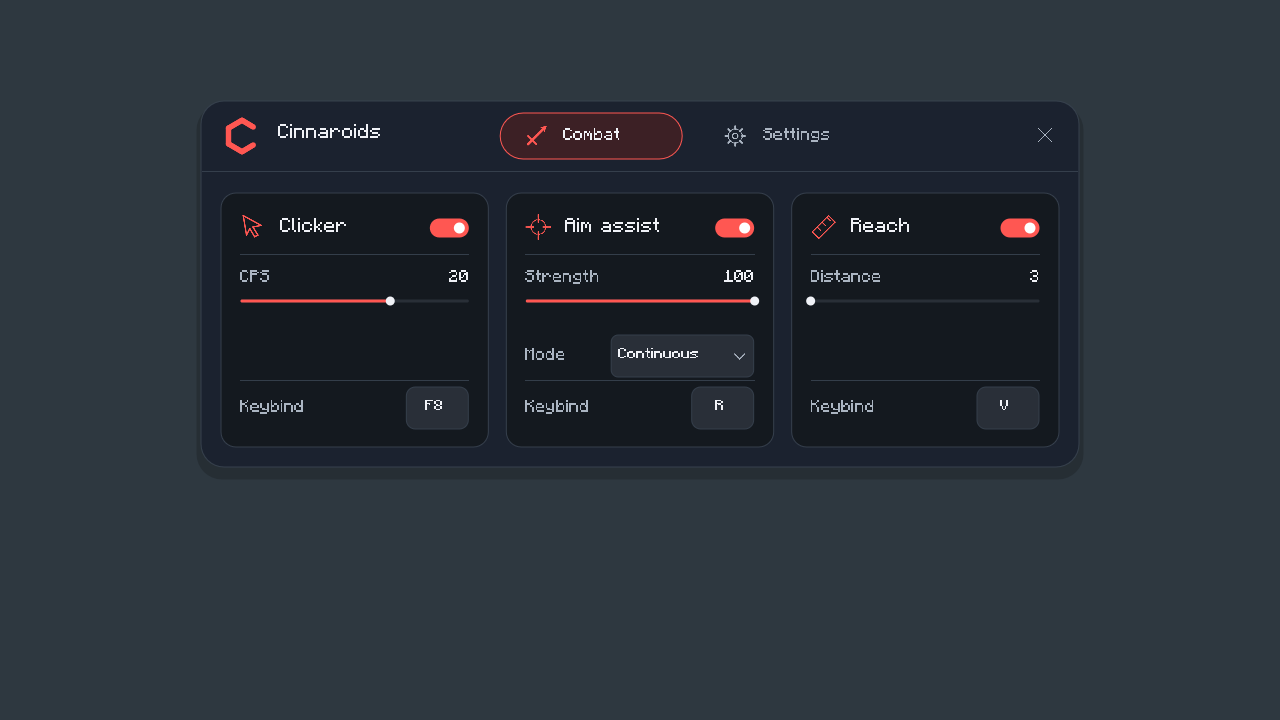
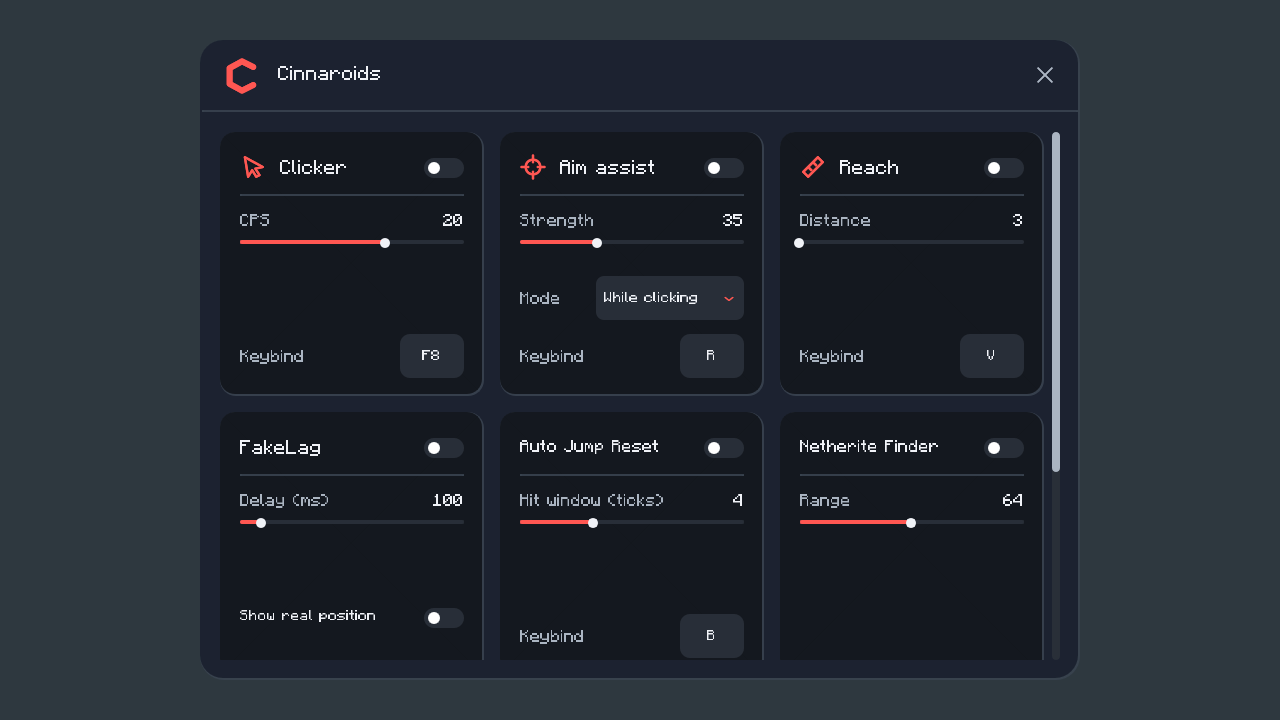
fix: restore square cards on one scrollable panel

Changed region(s): [[0.1562, 0.1528, 0.8438, 0.9167], [0.1562, 0.0917, 0.375, 0.4278], [0.3438, 0.3667, 0.375, 0.3972]]

diff --git a/scripts/generate-panel.py b/scripts/generate-panel.py
@@ -1,0 +1,193 @@
+#!/usr/bin/env python3
+"""Generate the tab-free card surface used by Cinnabar's native panel renderer."""
+
+import argparse
+import json
+from pathlib import Path
+
+
+ROOT = Path(__file__).resolve().parents[1]
+CARD = 132
+GAP = 8
+
+
+def node(kind, size, offset=(0, 0), **properties):
+    """Place a JSON-UI node relative to its parent's upper-left corner."""
+    return dict(type=kind, size=list(size), offset=list(offset),
+                anchor_from="top_left", anchor_to="top_left", **properties)
+
+
+def children(**nodes):
+    """Give each child a stable name for native hit testing and scrolling."""
+    return [{name: body} for name, body in nodes.items()]
+
+
+def binding(name, target):
+    """Read an existing host-owned control binding into one visual property."""
+    return dict(binding_name=name, binding_name_override=target)
+
+
+class Surface:
+    """Author square cards using the existing compact panel's native widgets."""
+
+    def __init__(self, dark):
+        self.card_color = [0.075, 0.09, 0.115, 0.96] if dark else [0.96, 0.965, 0.975, 0.97]
+        self.outer = [0.10, 0.13, 0.18, 0.95] if dark else [0.92, 0.93, 0.95, 0.98]
+        self.border = [0.22, 0.26, 0.31, 0.9] if dark else [0.75, 0.77, 0.8, 0.95]
+        self.raised = [0.16, 0.185, 0.22, 0.98] if dark else [0.86, 0.875, 0.9, 1]
+        self.text = [0.94, 0.95, 0.97, 1] if dark else [0.11, 0.12, 0.14, 1]
+        self.muted = [0.67, 0.71, 0.76, 1] if dark else [0.39, 0.41, 0.45, 1]
+        self.accent = [1, 0.34, 0.32, 1] if dark else [0.78, 0.24, 0.20, 1]
+
+    def rect(self, size, offset=(0, 0), radius=0, color=None):
+        """Use the host's rounded rectangle painter, with no texture dependency."""
+        return node("custom", size, offset, renderer="cinnabar_rounded_rectangle",
+                    radius=radius, color=color if color is not None else self.border)
+
+    def label(self, text, size, offset=(0, 0), *, muted=False, scale=0.85, align="left"):
+        """Draw a literal label or a changing host-formatted control value."""
+        result = node("label", size, offset, text=text, text_alignment=align,
+                      color=self.muted if muted else self.text, shadow=False,
+                      clips_children=True, hide_hyphen=True, localize=False,
+                      font_type="mod_panel", font_scale_factor=scale)
+        if text.startswith("#"):
+            result["bindings"] = [dict(binding_name=text)]
+        return result
+
+    def icon(self, name, size, offset):
+        """Draw an icon through Cinnabar's installed vector icon painter."""
+        return node("custom", size, offset, renderer="cinnabar_vector_icon",
+                    icon=name, color=self.accent if name != "close" else self.muted)
+
+    def button(self, action, size, offset=(0, 0), **contents):
+        """Route a pressed native button to an existing declared control."""
+        return node("button", size, offset, controls=children(**contents),
+                    button_mappings=[dict(from_button_id="button.menu_select",
+                                          to_button_id=action, mapping_type="pressed")])
+
+    def toggle(self, index, offset):
+        """Bind the switch track and knob to the host's live toggle state."""
+        track = self.rect([20, 10], radius=5, color=self.raised)
+        track["bindings"] = [binding(f"#row_{index}_toggle_color", "#color")]
+        knob = self.rect([6, 6], [2, 2], 3, self.text)
+        knob["bindings"] = [binding(f"#row_{index}_knob_offset", "#offset"),
+                            binding(f"#row_{index}_knob_color", "#color")]
+        return self.button(f"mod.control:{index}", [20, 14], offset, track=track, knob=knob)
+
+    def slider(self, index, text, y):
+        """Keep continuous dragging and click-to-type values on the native routes."""
+        width = CARD - 20
+        fill = self.rect([width, 2], [0, 3.5], 1, self.accent)
+        fill["bindings"] = [binding(f"#row_{index}_fill", "#size_binding_x")]
+        knob = self.rect([5, 5], radius=2.5, color=self.text)
+        knob.update(anchor_from="right_middle", anchor_to="center")
+        fill["controls"] = children(knob=knob)
+        return node("panel", [width, 32], [10, y], controls=children(
+            label=self.label(text, [width - 30, 12], muted=True),
+            value=self.button(f"mod.edit:{index}", [30, 13], [width - 30, 0],
+                              text=self.label(f"#row_{index}_value", [30, 12], align="right")),
+            slider=self.button(f"mod.control:{index}", [width, 12], [0, 11],
+                               track=self.rect([width, 2], [0, 3.5], 1, self.raised), fill=fill)))
+
+    def keybind(self, index, y, text="Keybind"):
+        """Show the native capture indicator and the persisted binding or None."""
+        return node("panel", [CARD - 20, 28], [10, y], controls=children(
+            label=self.label(text, [CARD - 58, 16], [0, 7], muted=True),
+            key=self.button(f"mod.control:{index}", [32, 22], [CARD - 52, 0],
+                            background=self.rect([32, 22], radius=5, color=self.raised),
+                            value=self.label(f"#row_{index}_value", [32, 15], [0, 7],
+                                             scale=0.75, align="center"))))
+
+    def choice(self, index, y):
+        """Open the host's keyboard-accessible dropdown instead of cycling options."""
+        return node("panel", [CARD - 20, 26], [10, y], controls=children(
+            label=self.label("Mode", [38, 14], [0, 7], muted=True),
+            choice=self.button(f"mod.control:{index}", [74, 22], [38, 0],
+                               background=self.rect([74, 22], radius=4, color=self.raised),
+                               value=self.label(f"#row_{index}_value", [60, 14], [4, 7], scale=0.75),
+                               chevron=self.icon("chevron", [5, 3], [64, 10]))))
+
+    def card(self, name, label, column, row, toggle=None, icon=None, **contents):
+        """Keep every module in its own square within one continuous card grid."""
+        title_x = 30 if icon else 10
+        body = dict(border=self.rect([CARD, CARD], radius=8),
+                    background=self.rect([CARD - 1, CARD - 1], [0.5, 0.5], 7.5, self.card_color),
+                    title=self.label(label, [CARD - title_x - (32 if toggle is not None else 10), 17],
+                                     [title_x, 13], scale=1 if len(label) < 14 else 0.85),
+                    rule=self.rect([CARD - 20, 0.5], [10, 31]))
+        if icon:
+            body["icon"] = self.icon(icon, [13, 13], [10, 11])
+        if toggle is not None:
+            body["toggle"] = self.toggle(toggle, [CARD - 30, 13])
+        body.update(contents)
+        return {name: node("panel", [CARD, CARD],
+                           [column * (CARD + GAP), row * (CARD + GAP)], controls=children(**body))}
+
+    def document(self):
+        """Keep the header fixed while all eight cards scroll as one native surface."""
+        cards = [
+            self.card("clicker", "Clicker", 0, 0, 1, "pointer",
+                      cps=self.slider(2, "CPS", 40), key=self.keybind(3, 101)),
+            self.card("aim", "Aim assist", 1, 0, 4, "crosshair",
+                      strength=self.slider(5, "Strength", 40), mode=self.choice(6, 72), key=self.keybind(7, 101)),
+            self.card("reach", "Reach", 2, 0, 8, "ruler",
+                      distance=self.slider(9, "Distance", 40), key=self.keybind(10, 101)),
+            self.card("fake_lag", "FakeLag", 0, 1, 14,
+                      delay=self.slider(15, "Delay (ms)", 40),
+                      real_label=self.label("Show real position", [90, 15], [10, 98], scale=0.75),
+                      real_toggle=self.toggle(16, [CARD - 30, 98])),
+            self.card("jump_reset", "Auto Jump Reset", 1, 1, 11,
+                      window=self.slider(12, "Hit window (ticks)", 40), key=self.keybind(13, 101)),
+            self.card("netherite", "Netherite Finder", 2, 1, 18,
+                      range=self.slider(19, "Range", 40)),
+            self.card("fullbright", "Fullbright", 0, 2, 20),
+            self.card("general", "General", 1, 2, icon="settings",
+                      menu=self.keybind(0, 40, "Menu key"),
+                      dark_label=self.label("Dark mode", [82, 15], [10, 77]),
+                      dark_toggle=self.toggle(17, [CARD - 30, 77]),
+                      stop=self.button("mod.control:21", [CARD - 20, 21], [10, 101],
+                                       background=self.rect([CARD - 20, 21], radius=4, color=self.raised),
+                                       label=self.label("Disable all", [CARD - 20, 15], [0, 6], align="center"))),
+        ]
+        track = node("scroll_track", [4, "100%"], controls=children(
+            background=self.rect(["100%", "100%"], radius=2, color=self.raised),
+            thumb=node("scrollbar_box", ["100%", "100%"], draggable="vertical", controls=children(
+                background=self.rect(["100%", "100%"], radius=2, color=self.muted)))))
+        view = node("scroll_view", [420, "100% - 56px"], [10, 46],
+                    scroll_content="cards", scroll_view_port="viewport", scrollbar_track="track",
+                    scrollbar_box="thumb", scroll_box_and_track_panel="scrollbar", scroll_speed=24,
+                    controls=children(
+                        viewport=node("panel", [412, "100%"], clips_children=True, controls=children(
+                            cards=node("panel", [412, 3 * CARD + 2 * GAP], controls=cards))),
+                        scrollbar=node("panel", [4, "100%"], [416, 0], controls=children(track=track))))
+        dialog = node("panel", [440, "100% - 40px"], [0, 20], max_size=[440, 468])
+        dialog.update(anchor_from="top_middle", anchor_to="top_middle", controls=children(
+            border=self.rect(["100%", "100%"], radius=12),
+            background=self.rect(["100% - 1px", "100% - 1px"], [0.5, 0.5], 11.5, self.outer),
+            brand=self.icon("brand", [18, 18], [12, 9]),
+            title=self.label("Cinnaroids", [160, 20], [39, 12], scale=1),
+            close=self.button("mod.close", [20, 24], [413, 6], icon=self.icon("close", [9, 9], [5, 7])),
+            rule=self.rect([438, 0.5], [1, 35.5]),
+            modules=view))
+        return dict(namespace="cinnaroids", panel=node("panel", ["100%", "100%"], controls=children(dialog=dialog)))
+
+
+def main():
+    """Write deterministic assets, or check that committed assets match the generator."""
+    parser = argparse.ArgumentParser(description=__doc__)
+    parser.add_argument("--check", action="store_true")
+    args = parser.parse_args()
+    for dark in [True, False]:
+        path = ROOT / "mods/cinnaroids/ui" / f"panel-{'dark' if dark else 'light'}.json"
+        document = json.dumps(Surface(dark).document(), separators=(",", ":"))
+        text = json.dumps(dict(screen="cinnaroids.panel", document=document), separators=(",", ":"))
+        if args.check:
+            if path.read_text() != text:
+                raise SystemExit(f"{path.relative_to(ROOT)} needs regeneration")
+        else:
+            path.parent.mkdir(parents=True, exist_ok=True)
+            path.write_text(text)
+
+
+if __name__ == "__main__":
+    main()

diff --git a/mods/cinnaroids/src/panel/tests.rs b/mods/cinnaroids/src/panel/tests.rs
@@ -1,0 +1,71 @@
+use serde_json::Value;
+
+/// Collect native action routes throughout the authored surface.
+fn actions(node: &Value, result: &mut Vec<String>) {
+    if let Some(mappings) = node["button_mappings"].as_array() {
+        for mapping in mappings {
+            result.push(mapping["to_button_id"].as_str().unwrap().to_owned());
+        }
+    }
+    if let Some(controls) = node["controls"].as_array() {
+        for entry in controls {
+            for child in entry.as_object().unwrap().values() {
+                actions(child, result);
+            }
+        }
+    }
+}
+
+/// Resolve a named child without coupling assertions to draw order.
+fn child<'a>(parent: &'a Value, name: &str) -> &'a Value {
+    parent["controls"]
+        .as_array()
+        .unwrap()
+        .iter()
+        .find_map(|entry| entry.get(name))
+        .unwrap()
+}
+
+#[test]
+fn both_themes_keep_every_control_on_one_scrollable_square_card_grid() {
+    for dark in [true, false] {
+        let mut json = "{\"controls\":[]}".to_owned();
+        super::append(&mut json, dark);
+        let panel: Value = serde_json::from_str(&json).unwrap();
+        let document: Value =
+            serde_json::from_str(panel["surface"]["document"].as_str().unwrap()).unwrap();
+        let root = &document["panel"];
+        let dialog = child(root, "dialog");
+        let view = child(dialog, "modules");
+        assert_eq!(view["type"], "scroll_view");
+        let viewport = child(view, "viewport");
+        assert_eq!(viewport["clips_children"], true);
+        let cards = child(viewport, "cards");
+        let entries = cards["controls"].as_array().unwrap();
+        assert_eq!(entries.len(), 8);
+        for entry in entries {
+            let card = entry.as_object().unwrap().values().next().unwrap();
+            assert_eq!(card["size"], serde_json::json!([132, 132]));
+        }
+        let mut routes = Vec::new();
+        actions(root, &mut routes);
+        for index in 0..22 {
+            assert_eq!(
+                routes
+                    .iter()
+                    .filter(|route| **route == format!("mod.control:{index}"))
+                    .count(),
+                1,
+                "control {index} must appear exactly once"
+            );
+        }
+        for index in [2, 5, 9, 12, 15, 19] {
+            assert!(routes.contains(&format!("mod.edit:{index}")));
+        }
+        assert!(
+            !routes.iter().any(|route| route.starts_with("mod.category:")
+                || matches!(route.as_str(), "mod.next" | "mod.prev"))
+        );
+        assert!(routes.contains(&"mod.close".to_owned()));
+    }
+}

diff --git a/scripts/build-cinnaroids.py b/scripts/build-cinnaroids.py
@@ -5,6 +5,7 @@ import os
 from pathlib import Path
 import shlex
 import subprocess
+import sys
 import tempfile
 
 from importlib.util import module_from_spec, spec_from_file_location
@@ -14,6 +15,8 @@ ROOT = Path(__file__).resolve().parents[1]
 
 def build() -> None:
     """Compile the guest, embed import metadata and licenses, then checksum the component."""
+    subprocess.run([sys.executable, str(ROOT / "scripts/generate-panel.py"), "--check"],
+                   cwd=ROOT, check=True)
     spec = spec_from_file_location("packaging", ROOT / "scripts/package-release.py")
     packaging = module_from_spec(spec)
     spec.loader.exec_module(packaging)

diff --git a/mods/cinnaroids/src/state.rs b/mods/cinnaroids/src/state.rs
@@ -646,9 +646,12 @@ impl State {
             dark: self.preferences.dark_mode,
             capture_key: self.capturing_key.is_some(),
             style: "compact",
+            reference_size: [464.0, 240.0],
             controls,
         };
-        serde_json::to_string(&panel)
+        let mut json = serde_json::to_string(&panel)?;
+        crate::panel::append(&mut json, self.preferences.dark_mode);
+        Ok(json)
     }
 }
 
@@ -773,6 +776,7 @@ struct Panel<'a> {
     dark: bool,
     capture_key: bool,
     style: &'a str,
+    reference_size: [f32; 2],
     controls: Vec<Control<'a>>,
 }
 

diff --git a/mods/cinnaroids/src/panel.rs b/mods/cinnaroids/src/panel.rs
@@ -1,0 +1,17 @@
+//! One native scroll view containing every module's square card.
+
+/// Copy already serialized geometry so panel updates fit the host's callback fuel.
+/// The host supplies live widget values independently through its row bindings.
+pub(super) fn append(json: &mut String, dark: bool) {
+    json.pop();
+    json.push_str(",\"surface\":");
+    json.push_str(if dark {
+        include_str!("../ui/panel-dark.json")
+    } else {
+        include_str!("../ui/panel-light.json")
+    });
+    json.push('}');
+}
+
+#[cfg(test)]
+mod tests;

diff --git a/mods/cinnaroids/src/state/tests.rs b/mods/cinnaroids/src/state/tests.rs
@@ -359,7 +359,7 @@ fn panel_has_every_control_in_both_themes_and_only_rebuilds_after_change() {
             .any(|control| control["id"] == "jump_reset")
     );
     assert!(json["dark"].as_bool().unwrap());
-    assert!(state.panel_json().unwrap().len() < 16 * 1024);
+    assert!(state.panel_json().unwrap().len() < 128 * 1024);
     state.panel_dirty = false;
     controls(&mut state, &[], &[]);
     assert!(!state.panel_dirty);

diff --git a/mods/cinnaroids/src/lib.rs b/mods/cinnaroids/src/lib.rs
@@ -4,4 +4,5 @@ pub mod aim;
 #[cfg(target_arch = "wasm32")]
 mod guest;
 pub mod jump_reset;
+mod panel;
 pub mod state;

diff --git a/README.md b/README.md
@@ -8,6 +8,8 @@ Download `cinnaroids.wasm` from the [latest release](https://github.com/RestartF
 
 **F7** opens the panel; **F10** stops all modules. Default combat bindings are **F8** Clicker, **R** Aim assist, and **V** Reach. **B** toggles Auto Jump Reset. Modules start disabled. Change bindings and preferences in the panel. [Module behavior](docs/modules.md).
 
+The panel keeps square module cards in a single three-column grid, with scrolling when needed. There are no category tabs or pages. Press Escape while setting a module keybind to clear it; Escape cancels capture for the Menu key.
+
 Build with Rust 1.99.0, the `wasm32-unknown-unknown` target, and Python 3.11 or newer:
 
 ```sh
@@ -17,6 +19,8 @@ python3 -m unittest discover -s scripts/tests -v
 ```
 
 The output is `dist/cinnaroids.wasm` and its SHA-256 checksum. The component embeds its Mods-card metadata, requested permissions, icon and license notices. Packaging validates it and rejects WASI imports. The SDK is pinned in the workspace manifest to Cinnabar commit `4ec3296c5598056743fb72bffd2d20243f1d1c8a`.
+
+Edit the card layout in `scripts/generate-panel.py`, then run it to regenerate both theme surfaces. Builds check that the generated files are current.
 
 To publish, open **Actions → Release → Run workflow** and select **patch**, **minor**, or **major**. The workflow bumps the shared workspace version and lockfile, commits and tags `vX.Y.Z`, tests and builds the module, then publishes the WASM and checksum. A matching pushed version tag also releases. Failed jobs can be re-run; a manual run recovers an unpublished tag at the default branch's HEAD without bumping twice.
 
